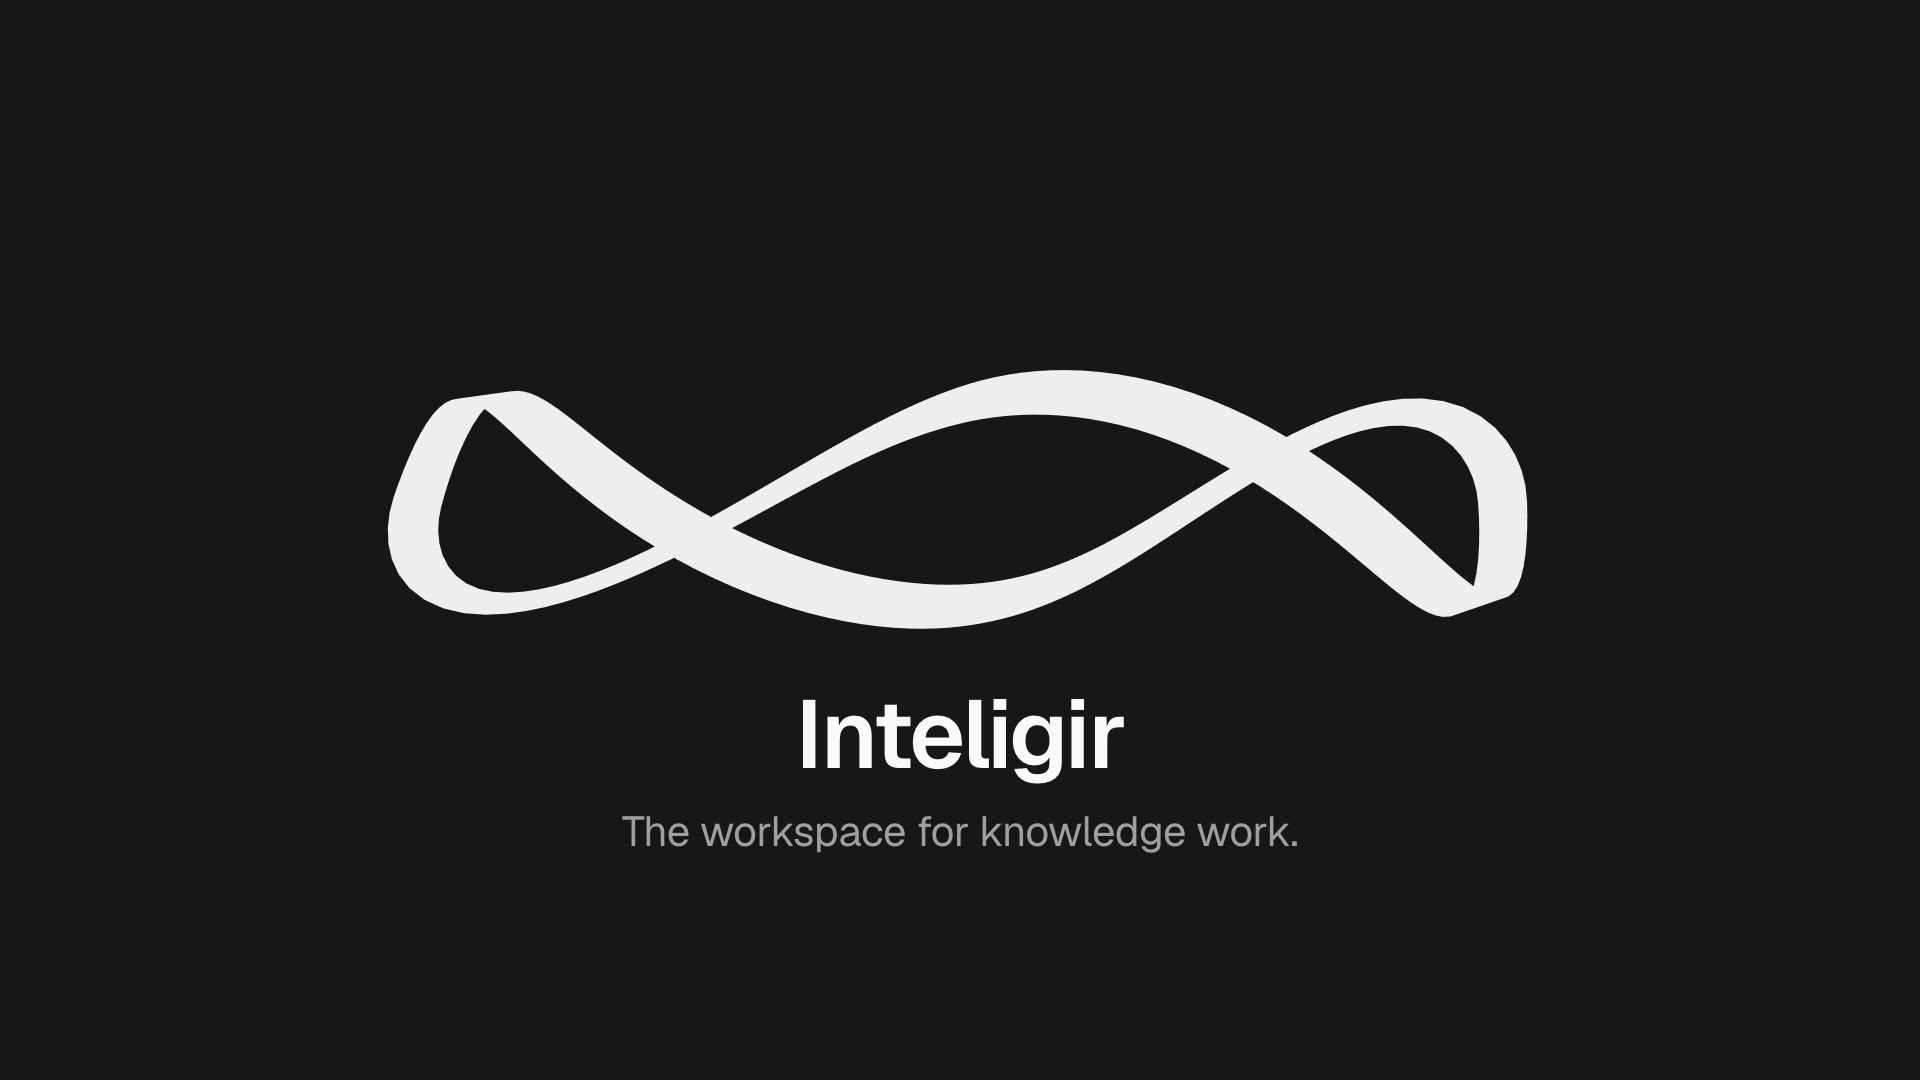
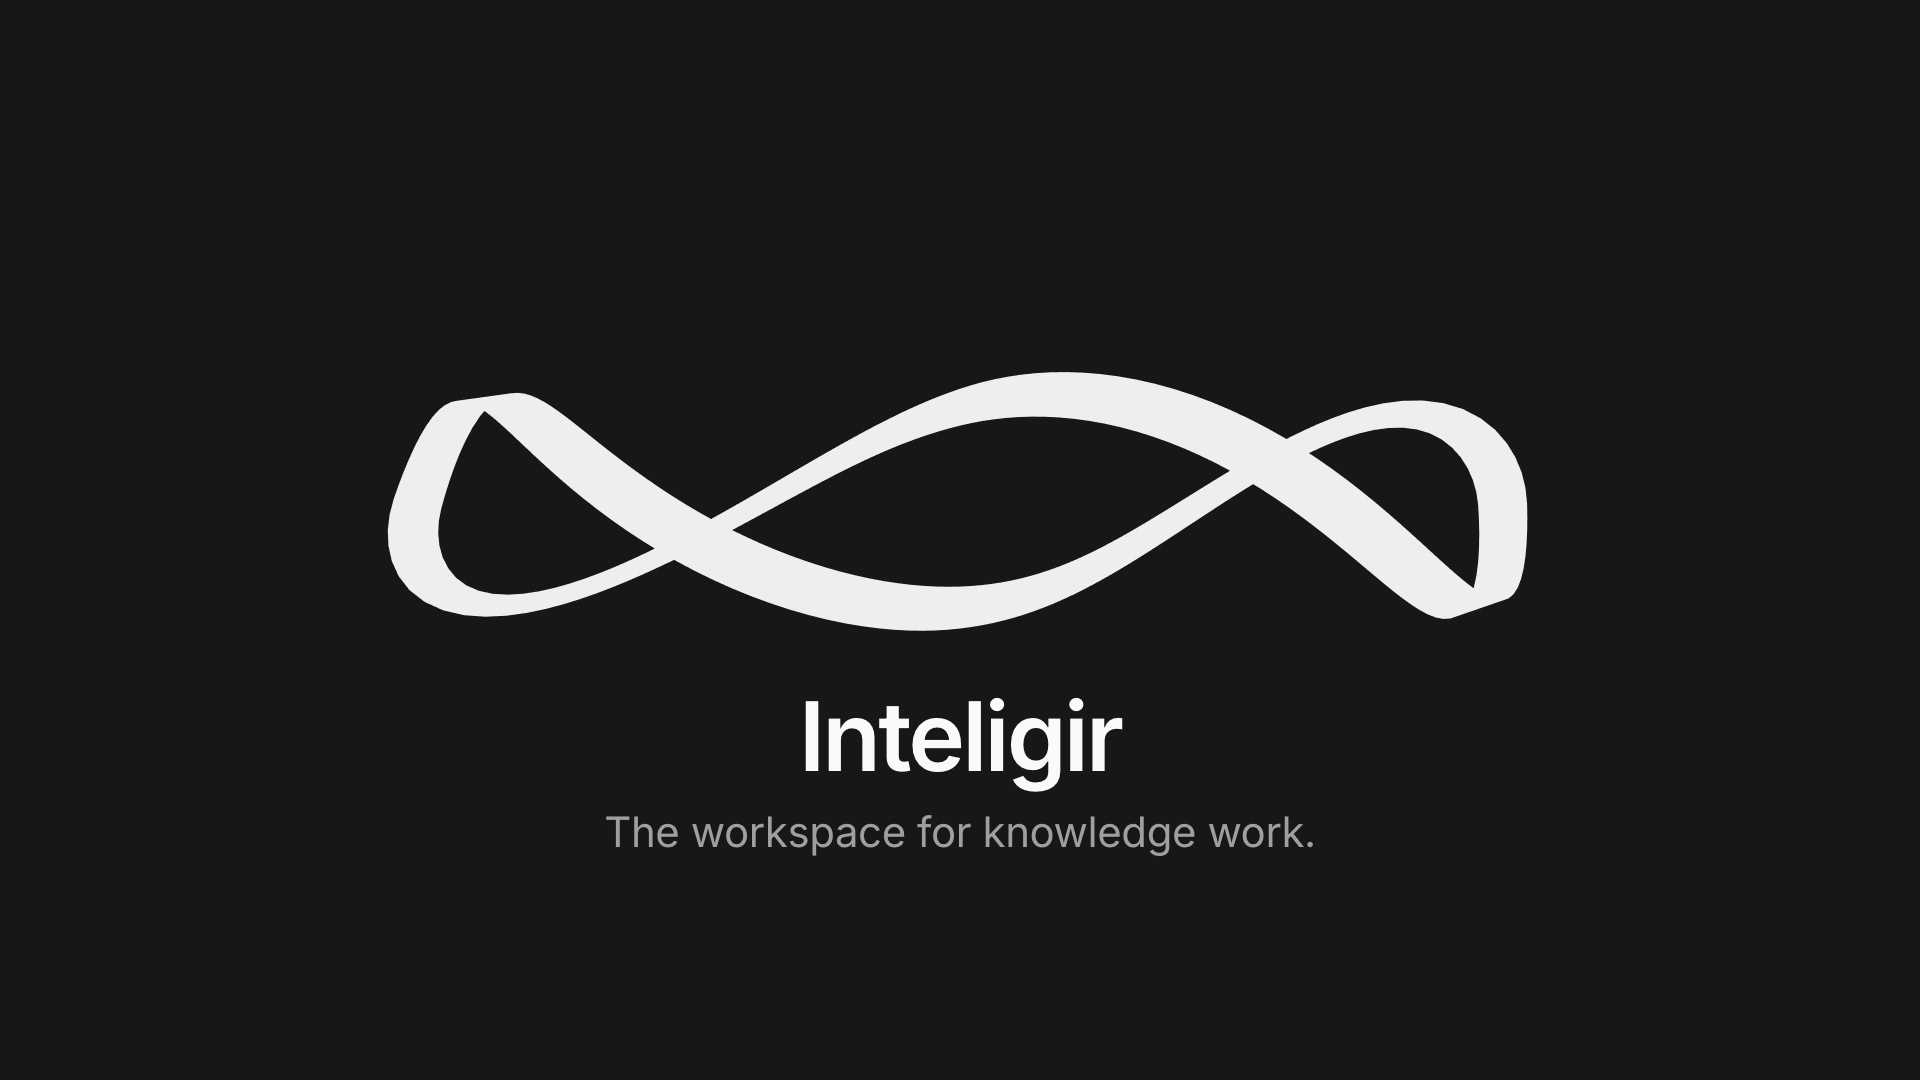
style: Inter is the face; the font tokens are named by role
The theme named Inter Variable and loaded Geist, so every surface fell to
the system sans. Inter is now the one shipped face and Geist Mono goes
with Geist: code reads in the platform's own mono stack. The tokens the
editor dials and the typeset fallbacks read are --font-body and --font-code,
named by role, because a token named after a face outlives the face. The
OG image is re-rendered in Inter.

diff --git a/packages/ui/src/styles/globals.css b/packages/ui/src/styles/globals.css
@@ -1,15 +1,14 @@
 @import "tailwindcss";
 @import "tw-animate-css";
 @import "shadcn/tailwind.css";
-@import "@fontsource-variable/geist";
-@import "@fontsource-variable/geist-mono";
+@import "@fontsource-variable/inter";
 @import "./typeset.css";
 
 /* the appearance dials publish --editor-* on <html>; the fallback is for an app with no such funnel */
 .typeset-docs {
-  --typeset-font-body: var(--editor-font, var(--font-geist));
-  --typeset-font-heading: var(--editor-font, var(--font-geist));
-  --typeset-font-mono: var(--editor-mono, var(--font-geist-mono));
+  --typeset-font-body: var(--editor-font, var(--font-body));
+  --typeset-font-heading: var(--editor-font, var(--font-body));
+  --typeset-font-mono: var(--editor-mono, var(--font-code));
   --typeset-size: var(--editor-size, 14px);
   --typeset-leading: var(--editor-line-height, 1.75);
   --typeset-flow: 1.25em;
@@ -42,8 +41,8 @@
 
 @theme inline {
   --font-heading: var(--font-sans);
-  --font-sans: "Inter Variable", sans-serif;
-  --font-mono: "Geist Mono Variable", ui-monospace, monospace;
+  --font-sans: var(--font-body);
+  --font-mono: var(--font-code);
   --color-sidebar-ring: var(--sidebar-ring);
   --color-sidebar-border: var(--sidebar-border);
   --color-sidebar-accent-foreground: var(--sidebar-accent-foreground);
@@ -117,8 +116,11 @@
 }
 
 :root {
-  --font-geist: "Geist Variable", system-ui, sans-serif;
-  --font-geist-mono: "Geist Mono Variable", ui-monospace, monospace;
+  /* named by role, not by face: a token named after a font outlives the font */
+  --font-body: "Inter Variable", system-ui, sans-serif;
+  --font-code:
+    ui-monospace, SFMono-Regular, Menlo, Monaco, Consolas, "Liberation Mono", "Courier New",
+    monospace;
 
   --background: oklch(1 0 0);
   --foreground: oklch(0.205 0 0);

diff --git a/apps/desktop/src/renderer/app/appearance.tsx b/apps/desktop/src/renderer/app/appearance.tsx
@@ -19,7 +19,7 @@ interface Option<Value extends string> {
 export const EDITOR_FONTS: readonly Option<EditorFont>[] = [
   { value: "sans", label: "Sans", css: null },
   { value: "serif", label: "Serif", css: 'ui-serif, Charter, Georgia, "Times New Roman", serif' },
-  { value: "mono", label: "Mono", css: "var(--font-geist-mono)" },
+  { value: "mono", label: "Mono", css: "var(--font-code)" },
 ];
 
 export const EDITOR_SIZES: readonly Option<EditorSize>[] = [

diff --git a/apps/desktop/src/renderer/styles/globals.css b/apps/desktop/src/renderer/styles/globals.css
@@ -9,8 +9,8 @@
   /* The only place each appearance default is written: app/appearance.tsx
      sets an inline property for a chosen option and clears it back to here
      otherwise. */
-  --editor-font: var(--font-geist);
-  --editor-mono: var(--font-geist-mono);
+  --editor-font: var(--font-body);
+  --editor-mono: var(--font-code);
   --editor-size: 14px;
   --editor-line-height: 1.75;
 

diff --git a/packages/ui/README.md b/packages/ui/README.md
@@ -23,7 +23,7 @@ src/components/  shadcn, Fluid Functionalism, local confirm-dialog
 src/ai/          Beautiful UI components
 src/hooks/       shared hooks
 src/lib/         UI system helpers and controlled theme provider
-src/styles/      Tailwind theme, Geist fonts, typeset styles
+src/styles/      Tailwind theme, Inter, typeset styles
 components.json  shadcn config: base-rhea, zinc, the @fluid registry
 ```
 
